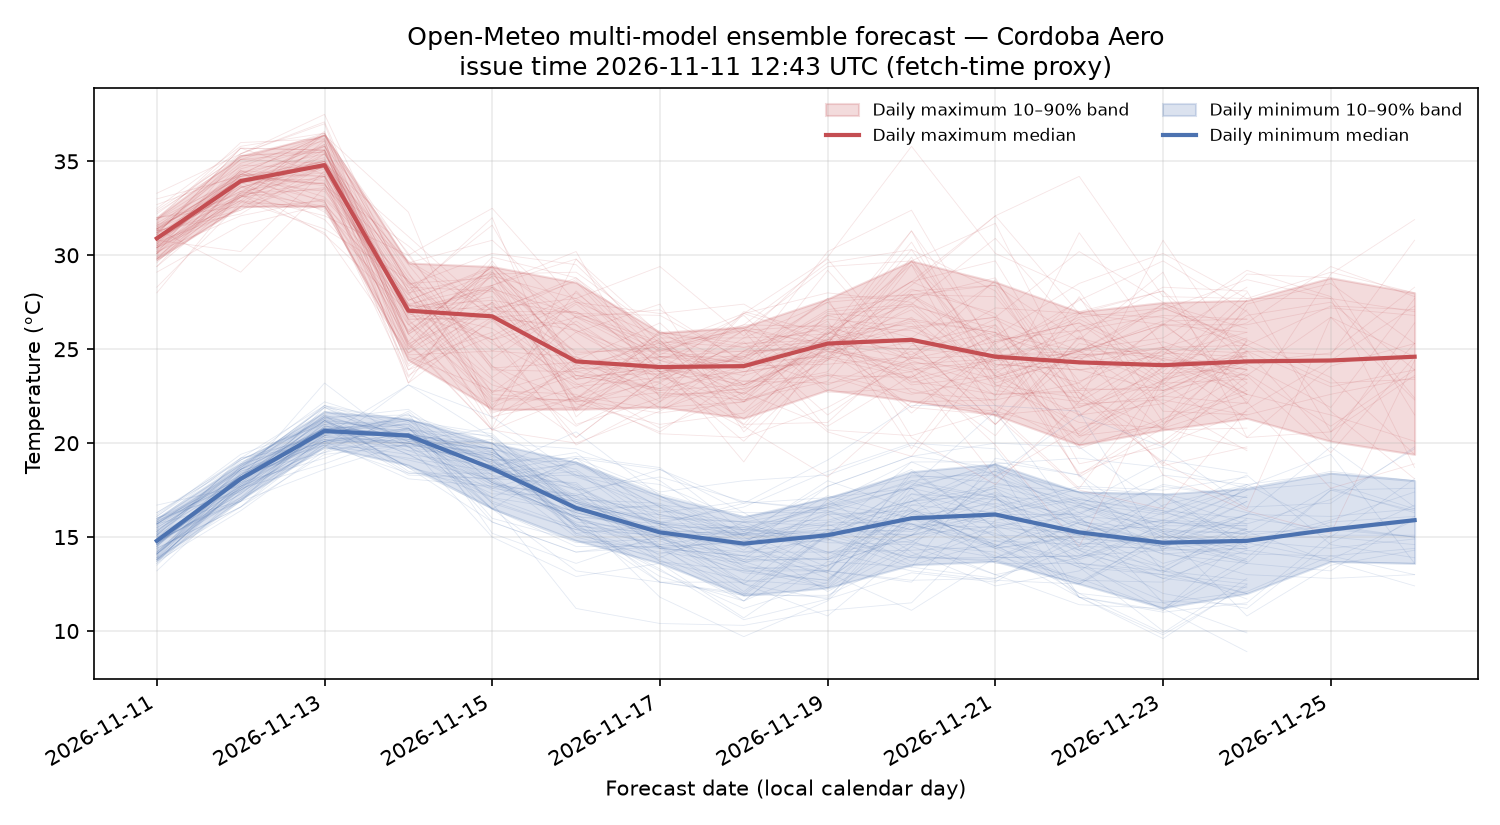
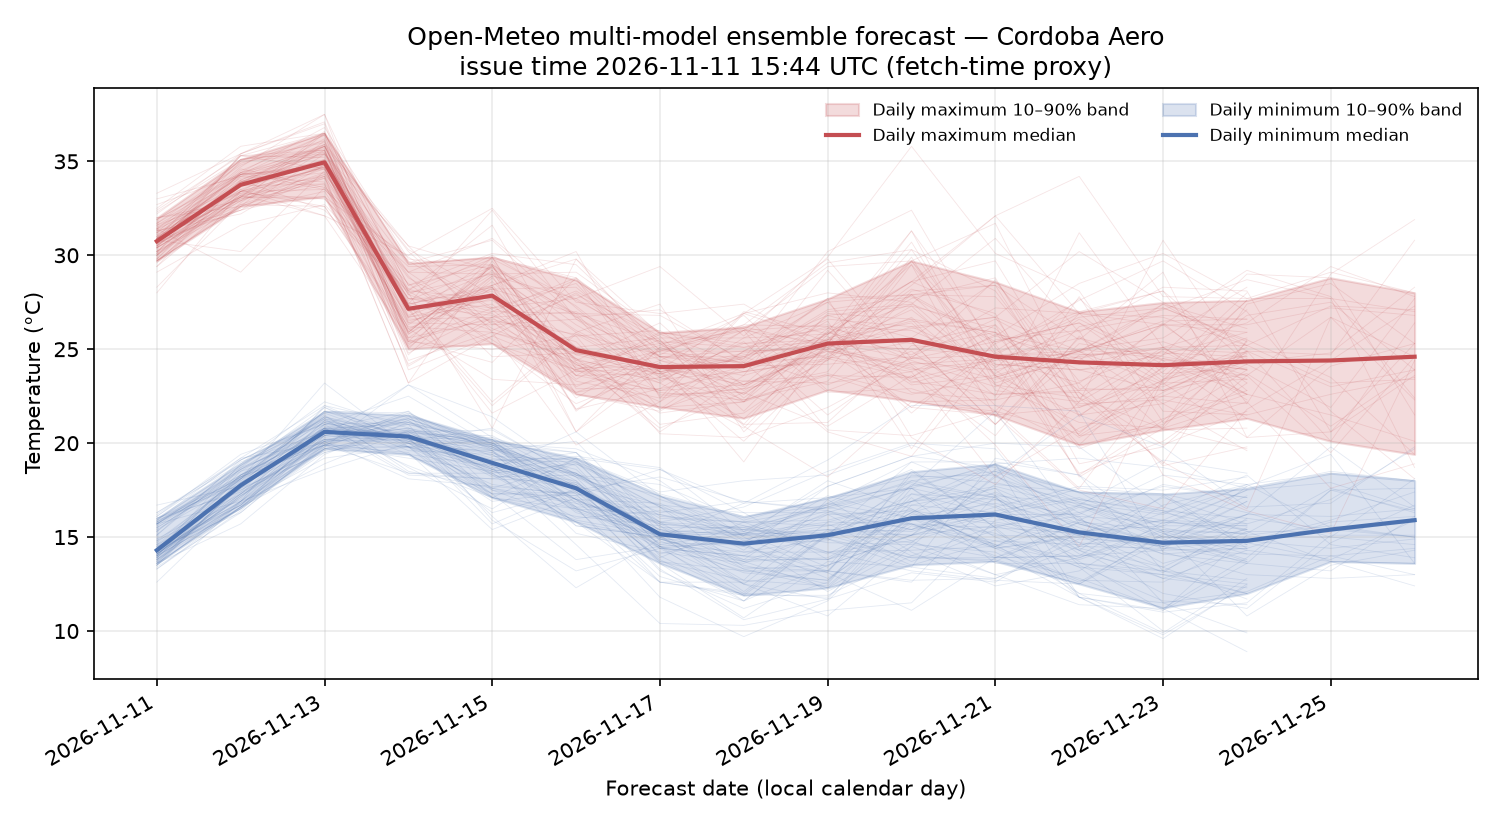
docs: update app map and forecast screenshots and figures

Changed region(s): [[0.092, 0.1818, 0.4907, 0.697], [0.4907, 0.0606, 0.552, 0.0909], [0.368, 0.3333, 0.3987, 0.3636]]

diff --git a/README.md b/README.md
@@ -6,6 +6,8 @@
 
 ![PRISMA station map](docs/images/app-map.png)
 
+![PRISMA forecast curves and quantile bands](docs/images/app-forecast.png)
+
 Live app: https://akunimal.github.io/prisma-climate/ · Dataset: https://huggingface.co/datasets/Akunimal/prisma-climate
 
 PRISMA is an open, cross-platform project that cross-references real-time weather and climate data, verifies forecasts against observations, and will show calibrated probabilities instead of single numbers.
